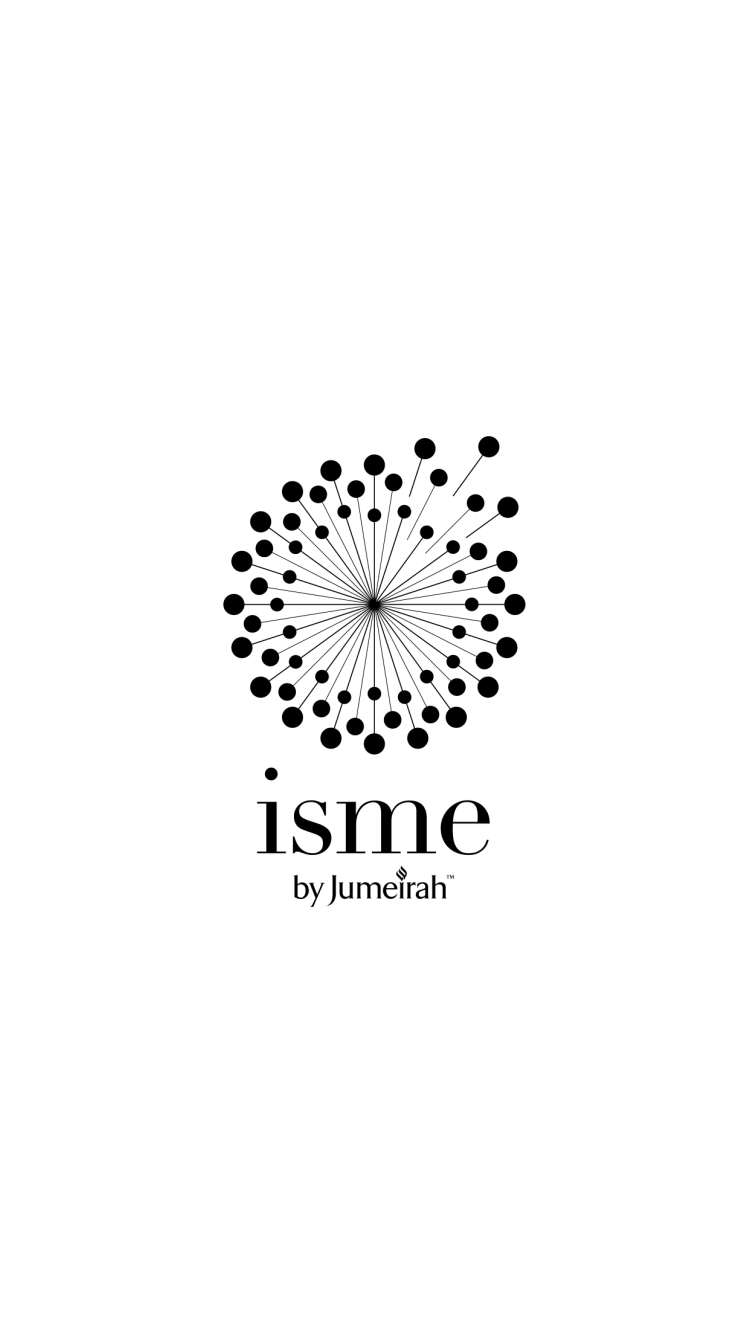
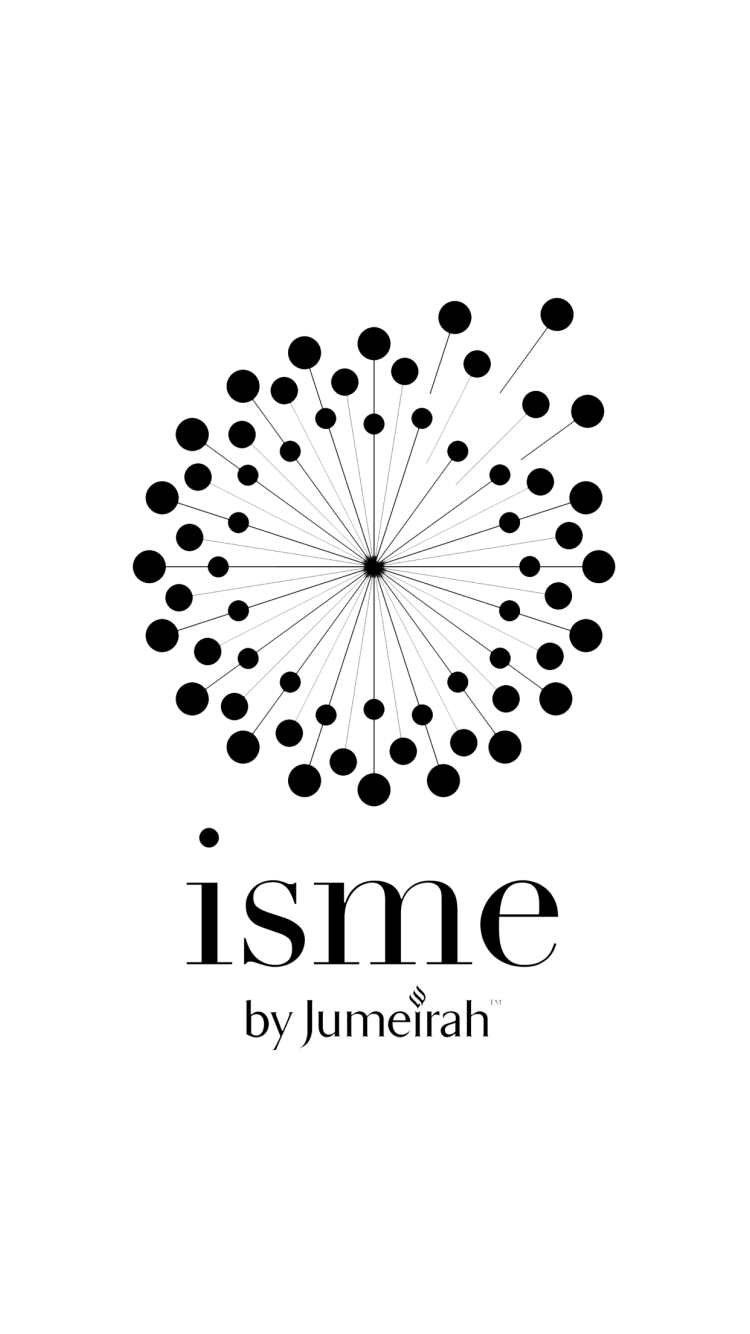
Changes made by Rahath Nadeem (rahathn@unosolindia.com).

Changed region(s): [[0.184, 0.2151, 0.828, 0.7991], [0.644, 0.6454, 0.736, 0.7376], [0.7053, 0.2151, 0.7667, 0.2459]]

diff --git a/isme/styles/main.css b/isme/styles/main.css
@@ -2550,7 +2550,7 @@ tile-frame-inner
     width:100%;
     margin:10px auto;
     background: url(../images/home_page_logo_home.png) no-repeat center center;
-    background-size:50%;
+    background-size:45%;
 }
 
  .km-arrow-up:after,

diff --git a/isme/styles/phone375x667.css b/isme/styles/phone375x667.css
@@ -212,7 +212,7 @@
 
 .logo-image-holder
 {
-    height:300px;
+    height:285px;
  
 }
 
